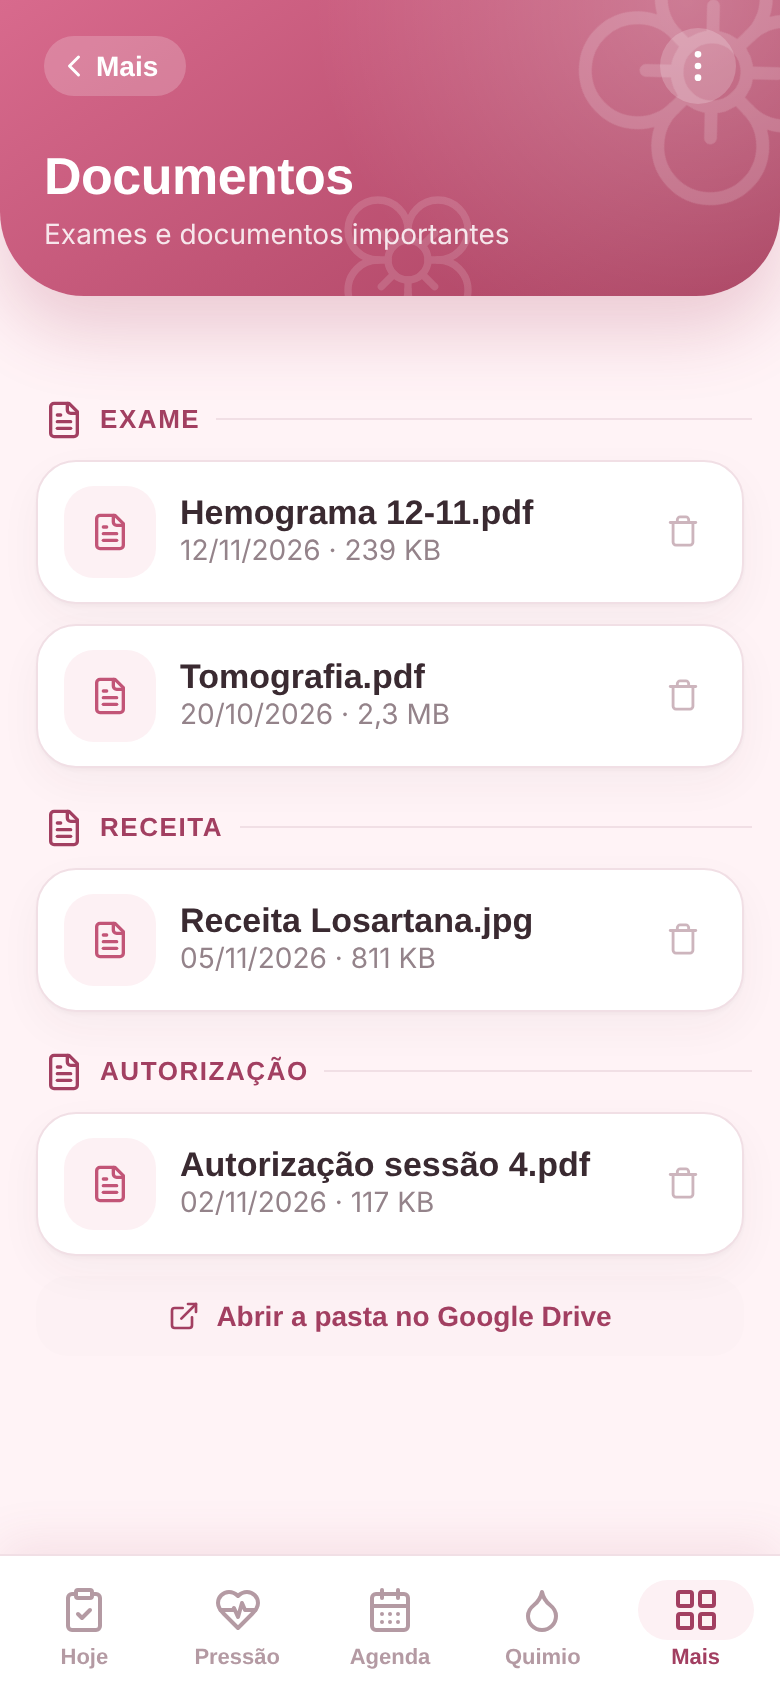
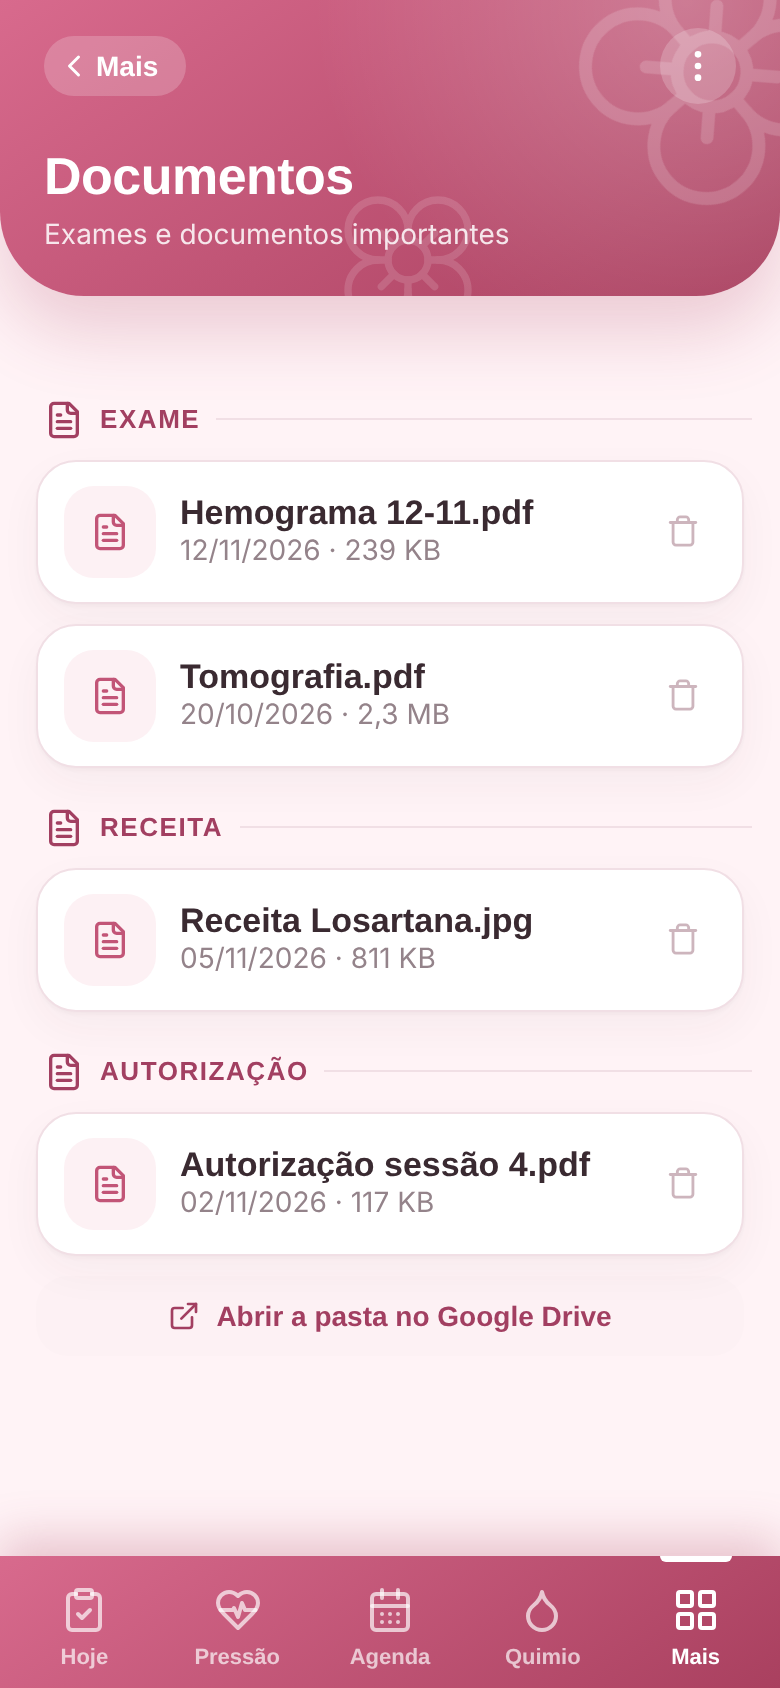
Add files via upload

Changed region(s): [[0.0, 0.9242, 1.0, 1.0], [0.9538, 0.0616, 0.9846, 0.1232]]

diff --git a/index.html b/index.html
@@ -2574,6 +2574,58 @@
     .nav button.on .i {
       margin: 0
     }
+
+    /* barra de baixo rosa, com uma linha no topo marcando a aba ativa */
+    .nav {
+      background: var(--hero);
+      border-top: 0;
+      box-shadow: 0 -8px 24px rgba(169, 64, 95, .28);
+      -webkit-backdrop-filter: none;
+      backdrop-filter: none
+    }
+
+    .nav button {
+      position: relative;
+      color: rgba(255, 255, 255, .68)
+    }
+
+    .nav button.on {
+      color: #fff
+    }
+
+    .nav button::before {
+      content: "";
+      position: absolute;
+      top: -6px;
+      left: 50%;
+      width: 0;
+      height: 3px;
+      border-radius: 0 0 4px 4px;
+      background: #fff;
+      transform: translateX(-50%);
+      transition: width .3s var(--ease)
+    }
+
+    .nav button.on::before {
+      width: 36px
+    }
+
+    .nav button .i,
+    .nav button.on .i {
+      width: 24px;
+      height: 24px;
+      padding: 0;
+      margin: 3px 0;
+      background: none;
+      border-radius: 0
+    }
+
+    @media (hover:hover) {
+      .nav button:not(.on):hover {
+        background: none;
+        color: #fff
+      }
+    }
   </style>
 </head>
 
@@ -3077,7 +3129,7 @@
   </div>
 
   <script>
-    const API_URL = 'https://script.google.com/macros/s/AKfycbygi4DMEklucoLk_H2q8SPpUq-h3Y-r52xIy5zKFYcW95G6CPohunB_8MKD0q7L2Wje/exec';
+    const API_URL = 'https://script.google.com/macros/s/AKfycbygi4DMEklucoLk_H2q8SPpUq-h3Y-r52xIy5zKFYcW95G6CPohunB_8MKD0q7L2Wje/exec'; 
     const $ = s => document.querySelector(s);
     let pin = localStorage.getItem('pin') || '';
     let doses = [];
